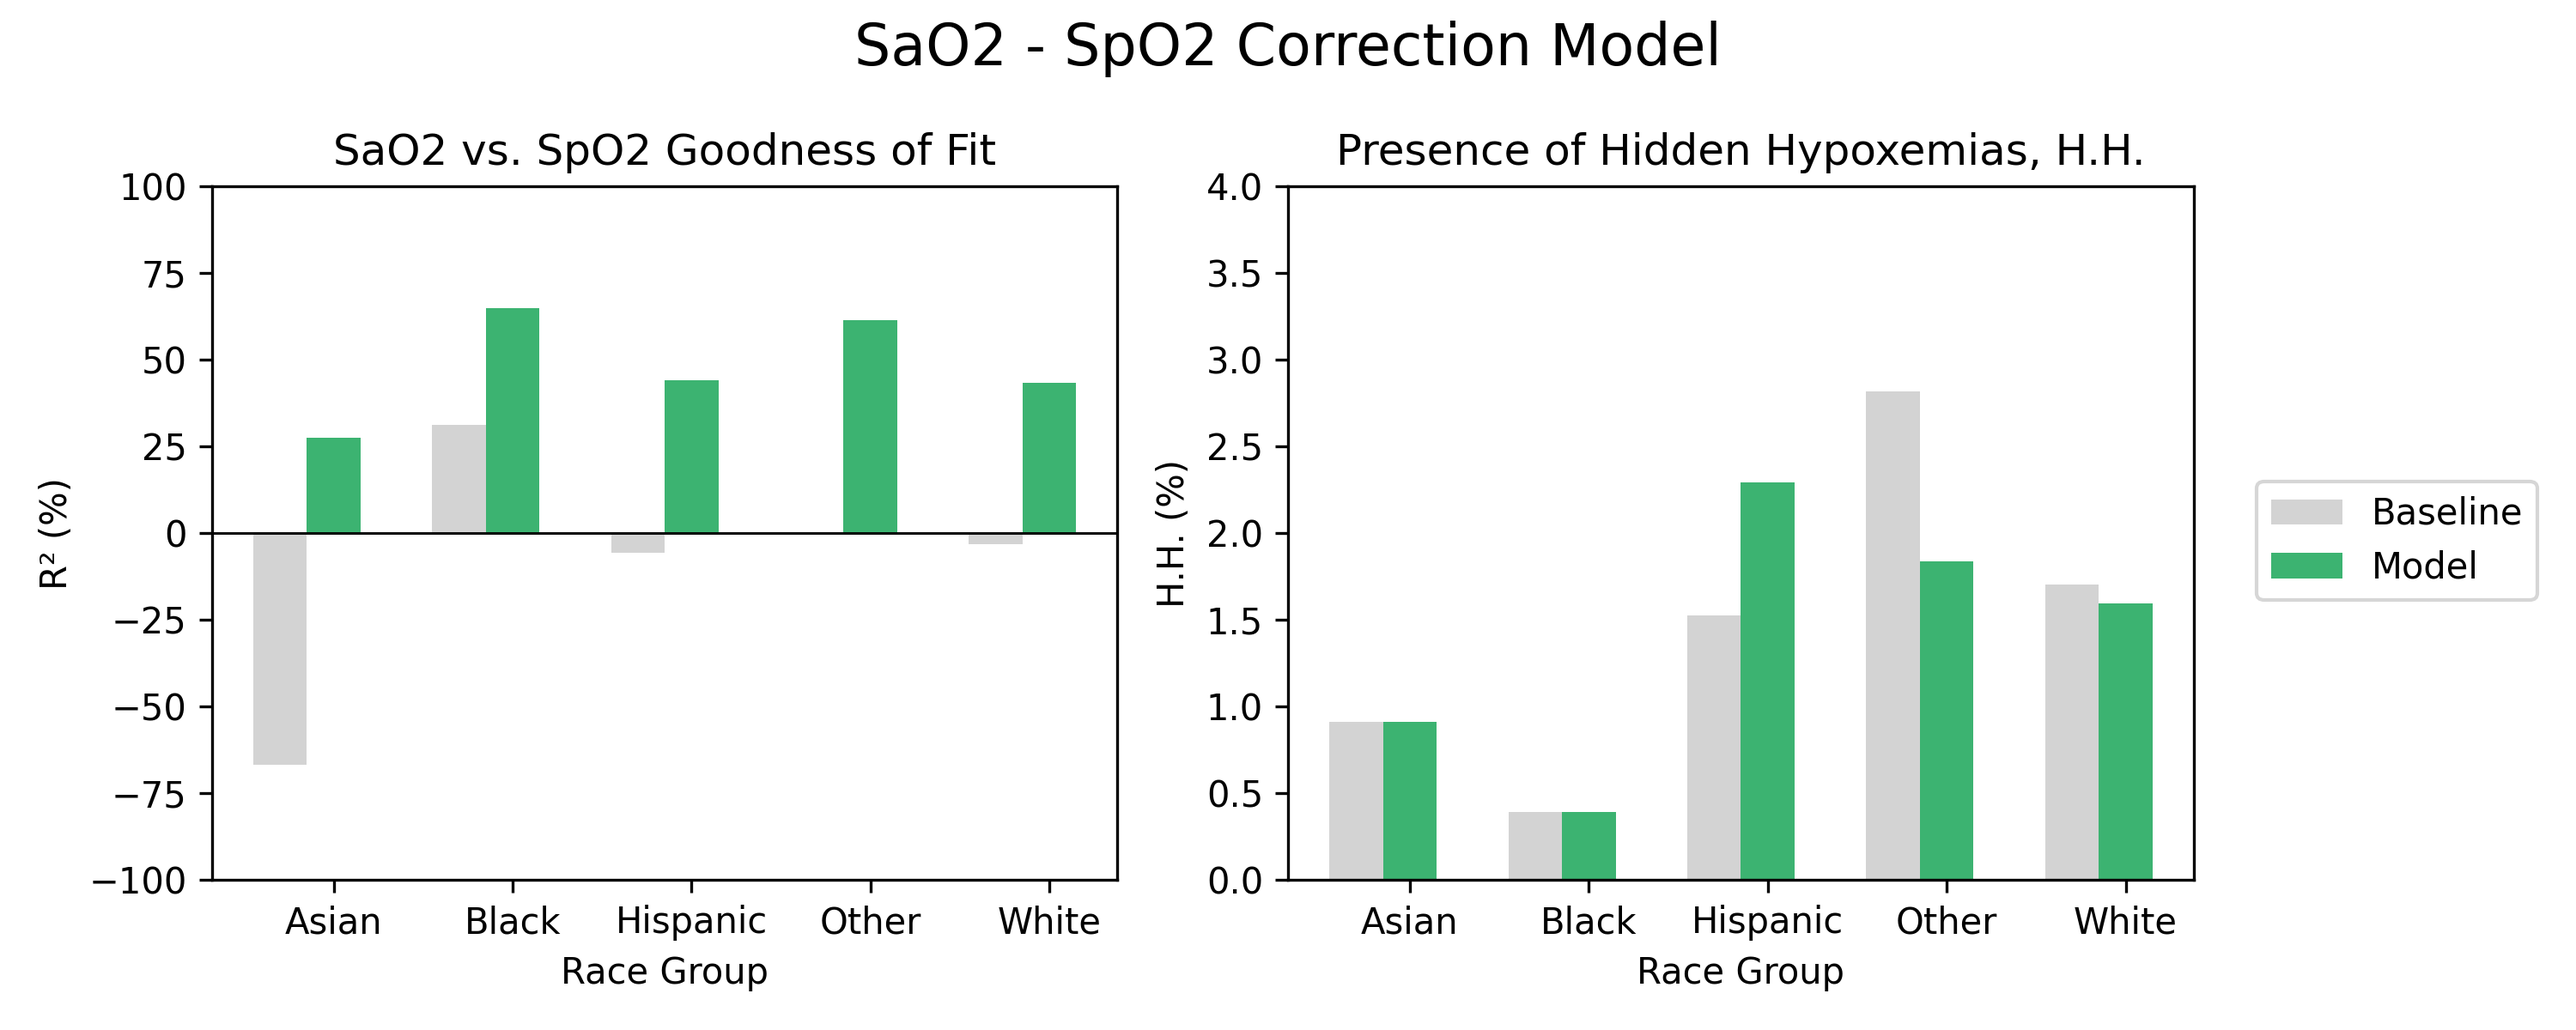
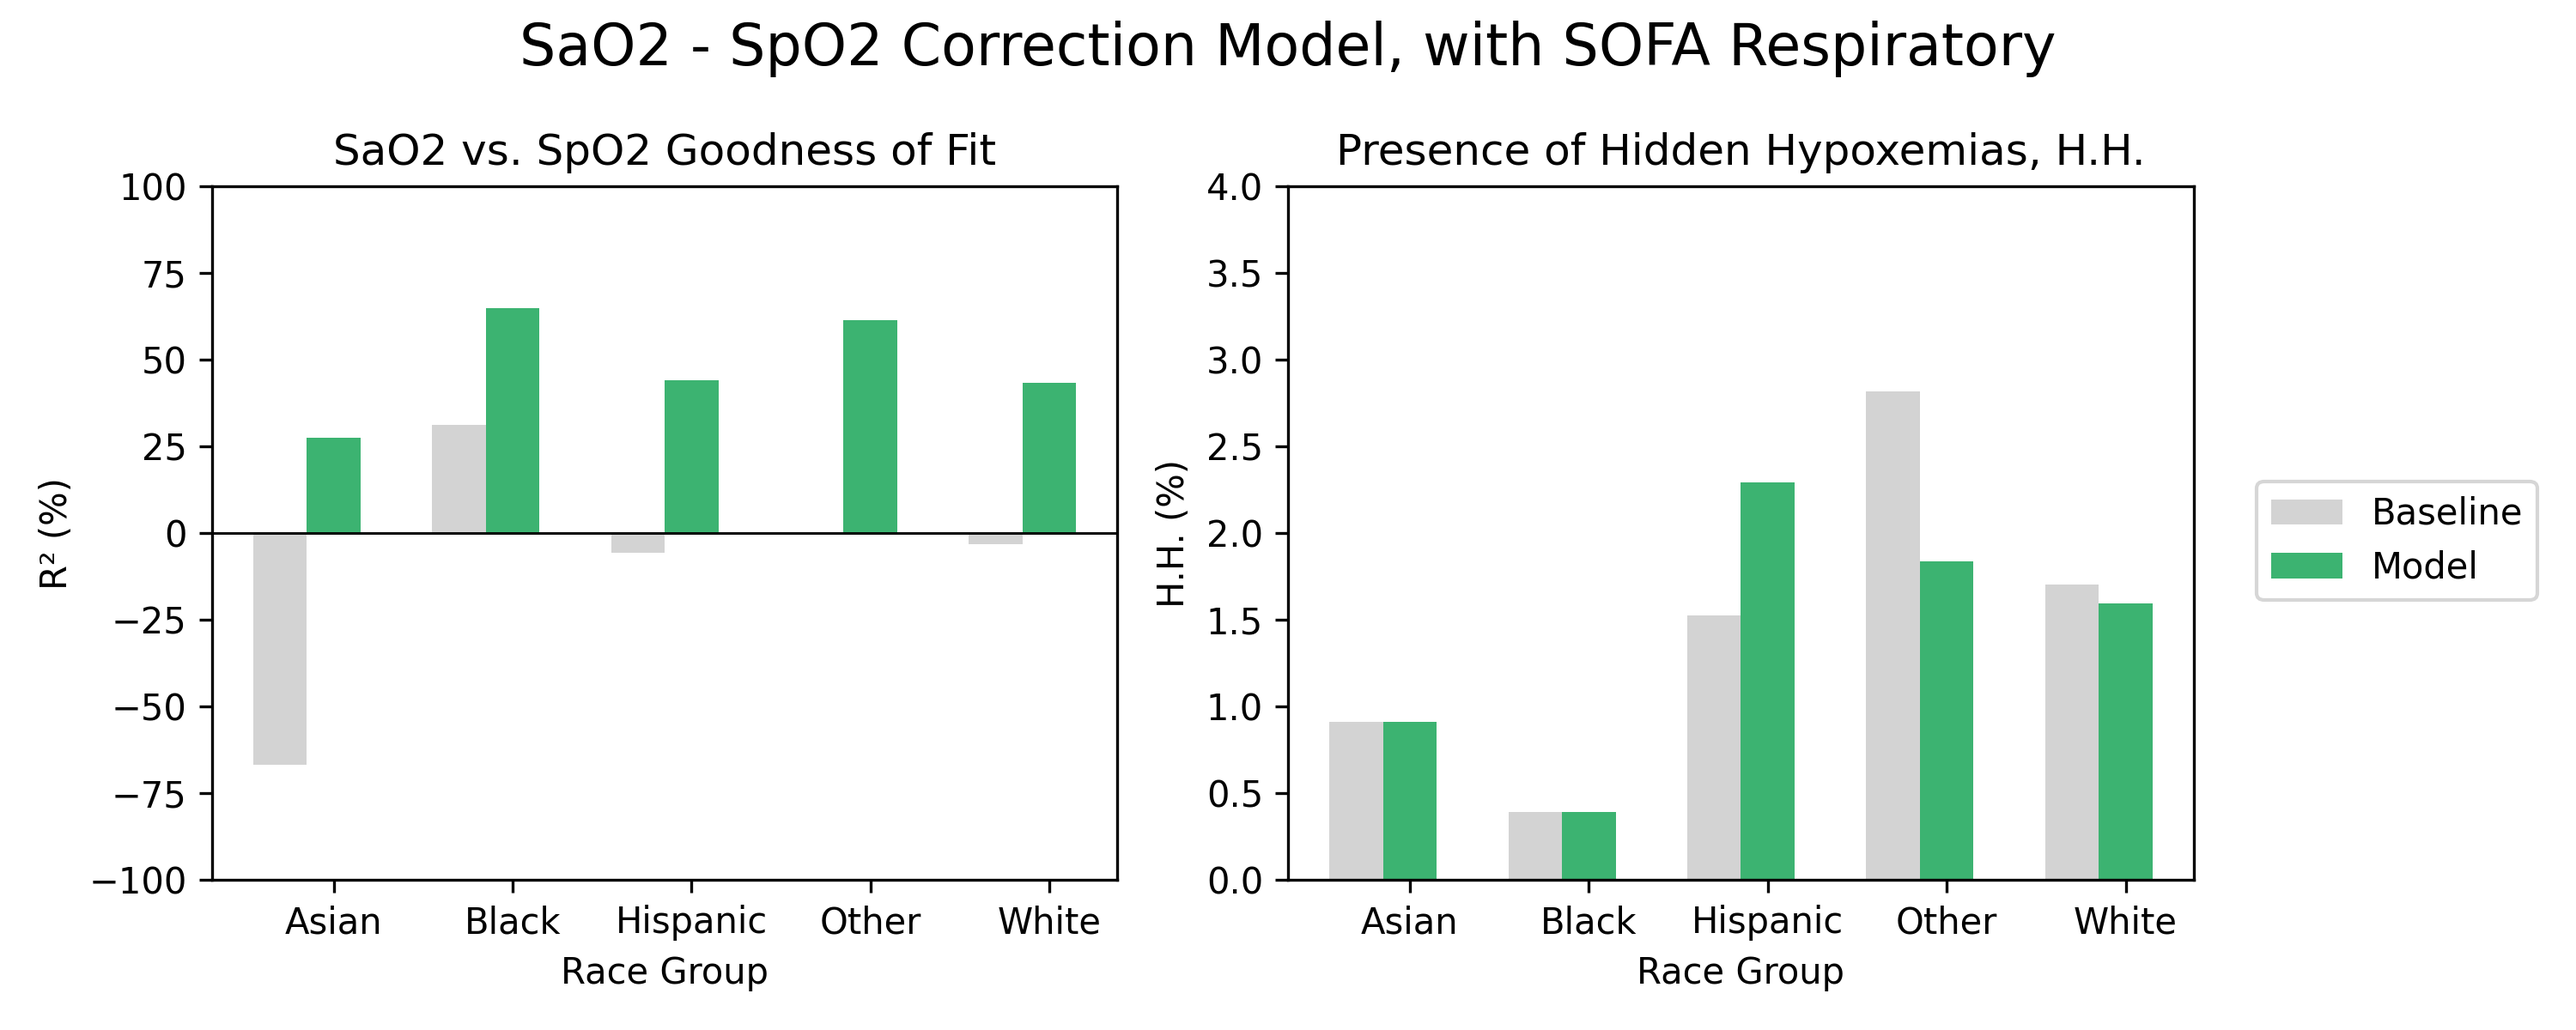
Add same plot for without SOFA resp

Changed region(s): [[0.186, 0.0, 0.806, 0.0617]]

diff --git a/src/10_plot_results.py b/src/10_plot_results.py
@@ -4,50 +4,57 @@ import matplotlib.pyplot as plt
 import matplotlib
 matplotlib.use('TKAgg')
 
-model_name = "xgbr_wSOFA"
+def plot_results(model_name, title):
 
-# load the data
-data = pd.read_excel(f'results/{model_name}.xlsx', index_col=0)
-data = data.drop('Overall', axis=1)
+    # load the data
+    data = pd.read_excel(f'results/{model_name}.xlsx', index_col=0)
+    data = data.drop('Overall', axis=1)
 
 
-xx = np.arange(len(data.columns))
+    xx = np.arange(len(data.columns))
 
-# create the first subplot with baseline and model R²
-fig, axs = plt.subplots(1,2, figsize=(10, 4))
-axs[0].bar(xx-.3, data.loc['Baseline R²'] * 100,
-           width=.3, 
-           color='lightgray', label='Baseline')
+    # create the first subplot with baseline and model R²
+    fig, axs = plt.subplots(1,2, figsize=(10, 4))
+    axs[0].bar(xx-.3, data.loc['Baseline R²'] * 100,
+            width=.3, 
+            color='lightgray', label='Baseline')
 
-axs[0].bar(xx, data.loc['Model R²'] * 100,
-           width=.3, #alpha=.8,
-           color='mediumseagreen', label='Model')
+    axs[0].bar(xx, data.loc['Model R²'] * 100,
+            width=.3, #alpha=.8,
+            color='mediumseagreen', label='Model')
 
-axs[0].set_title('SaO2 vs. SpO2 Goodness of Fit')
-axs[0].set_xticks(xx, data.columns)
-axs[0].set_xlabel("Race Group")
-axs[0].set_ylabel('R² (%)')
-axs[0].set_ylim([-100, 100])
-axs[0].axhline(y=0, color='k', linewidth=.7)
+    axs[0].set_title('SaO2 vs. SpO2 Goodness of Fit')
+    axs[0].set_xticks(xx, data.columns)
+    axs[0].set_xlabel("Race Group")
+    axs[0].set_ylabel('R² (%)')
+    axs[0].set_ylim([-100, 100])
+    axs[0].axhline(y=0, color='k', linewidth=.7)
 
-# create the second subplot with baseline and model HH
-axs[1].bar(xx-.3, data.loc['Baseline HH'] / data.loc['N'] * 100,
-           width=.3,
-           color='lightgray', label='Baseline')
+    # create the second subplot with baseline and model HH
+    axs[1].bar(xx-.3, data.loc['Baseline HH'] / data.loc['N'] * 100,
+            width=.3,
+            color='lightgray', label='Baseline')
 
-axs[1].bar(xx, data.loc['Model HH'] / data.loc['N'] * 100,
-           width=.3,
-           color='mediumseagreen', label='Model')
+    axs[1].bar(xx, data.loc['Model HH'] / data.loc['N'] * 100,
+            width=.3,
+            color='mediumseagreen', label='Model')
 
-axs[1].set_title('Presence of Hidden Hypoxemias, H.H.')
-axs[1].set_xticks(xx, data.columns)
-axs[1].set_xlabel("Race Group")
-axs[1].set_ylabel('H.H. (%)')
-axs[1].set_ylim([0, 4])
-plt.xticks(xx, data.columns)
-axs[1].legend(loc='upper left', bbox_to_anchor=(1.05, .6))
+    axs[1].set_title('Presence of Hidden Hypoxemias, H.H.')
+    axs[1].set_xticks(xx, data.columns)
+    axs[1].set_xlabel("Race Group")
+    axs[1].set_ylabel('H.H. (%)')
+    axs[1].set_ylim([0, 4])
+    plt.xticks(xx, data.columns)
+    axs[1].legend(loc='upper left', bbox_to_anchor=(1.05, .6))
 
-# add a title and save the figure
-plt.suptitle('SaO2 - SpO2 Correction Model', fontsize=16)
-plt.tight_layout()
-plt.savefig(f'results/{model_name}.png', dpi=300)
+    # add a title and save the figure
+    plt.suptitle(f'SaO2 - SpO2 Correction Model{title}', fontsize=16)
+    plt.tight_layout()
+    plt.savefig(f'results/{model_name}.png', dpi=300)
+
+
+model_names = ["xgbr_wSOFA", "xgbr_woSOFA"]
+titles = [', with SOFA Respiratory', ', without SOFA Respiratory']
+
+for m, t in zip(model_names, titles):
+    plot_results(m,t)
